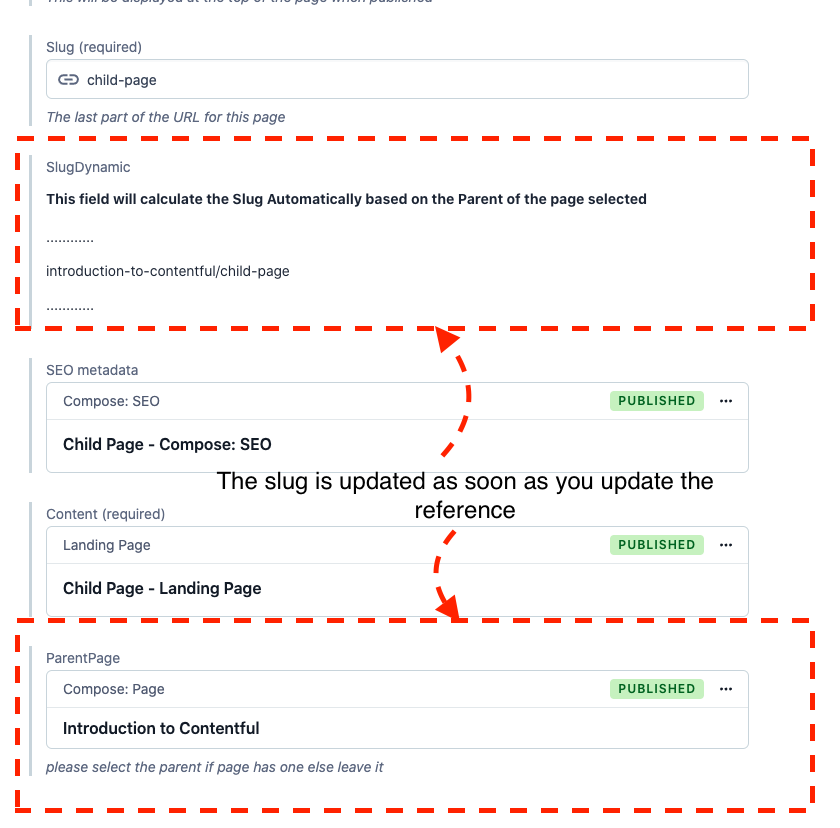
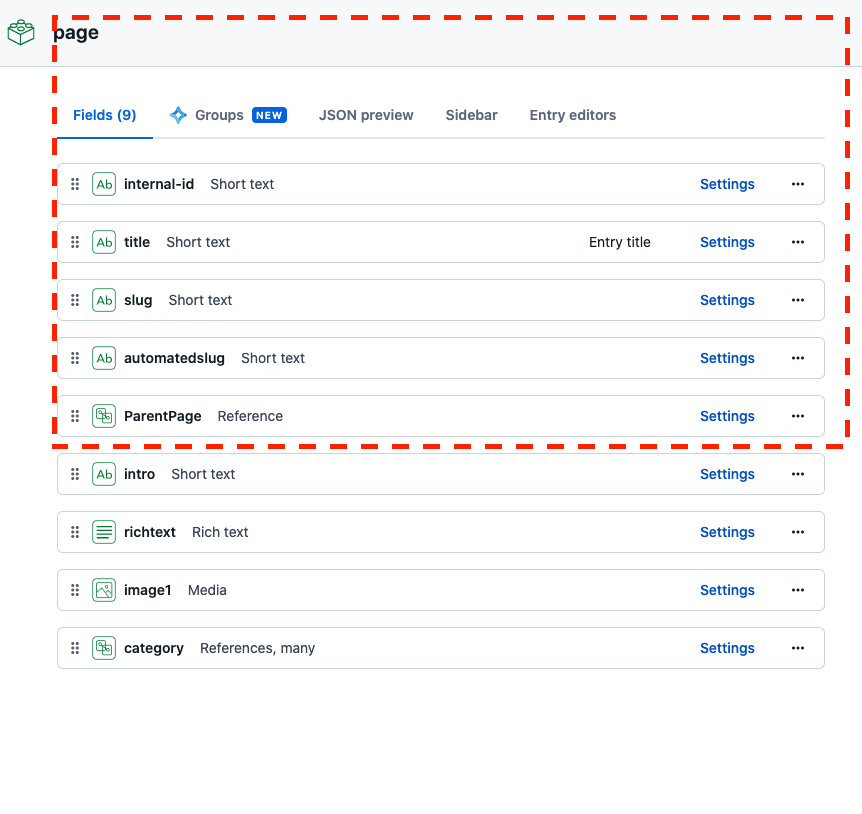
updated app + Read me

diff --git a/src/components/Field.tsx b/src/components/Field.tsx
@@ -1,6 +1,7 @@
 import { useEffect,useState } from 'react';
 import { PlainClientAPI } from 'contentful-management';
 import { FieldExtensionSDK } from '@contentful/app-sdk';
+import { Button } from '@contentful/f36-components';
 
 interface FieldProps {
   sdk: FieldExtensionSDK;
@@ -14,63 +15,119 @@ const Field = (props: FieldProps) => {
 
   const [parentSlug, setParentSlug] = useState('')
   const [slug, setSlug] = useState('')
+  const [finalSlugValue, setFinalSlugValue] = useState('')
 
   useEffect(() => {
     
-          //listen to parentReferenceField
+    //called on saving value
+    const detachOnMetaChanged = props.sdk.entry.onMetadataChanged(
+      async (value:any) => {
+        console.log('onSysChanged',value)
+        console.log('onSysChanged',finalSlugValue)
+        props.sdk.field.setValue(finalSlugValue)
+      }
+    )
+    
+    //listen to parentReferenceField
     const detachValueChangeHandlerParentSlug = props.sdk.entry.fields.parentPage.onValueChanged(async (value) => {
 
-        if(value){
+      //debugger
+      console.log(props.sdk.entry.fields.automatedslug)
+          if(value){
 
-          //getting the parent entry
-          const entry = await props.cma.entry.get({entryId:value.sys.id})
-          
-          //checking for user email, you can apply your own custom roles here.
-          if(props.sdk.user.email === 'omer.abdulmaroof@contentful.com')
+            //getting the parent entry
+            const entry = await props.cma.entry.get({entryId:value.sys.id})
 
-            //gettin slug value from parent page.
-            setParentSlug(entry.fields.slug['en-US'])
-          else {
+            //debugger
+            //check if page has parent, set slug to autmated else set to normal slug
+            if(entry.fields.parentPage == null){
+              //gettin slug value from parent page.
+              setParentSlug(entry.fields.slug['en-GB'])
+            }else{
+              //gettin slug value from parent page.
+              setParentSlug(entry.fields.automatedslug['en-GB'])
 
-            //showing alert if the user is not allowed to save slug
-            props.sdk.dialogs.openAlert(
-              {
-                title:'Error Message',
-                confirmLabel:'Ok',
-                message:'Dear user, You are not allowed to add child Page to this page.'
-              })
+            }
+
+          }else{
             setParentSlug('')
-            props.sdk.entry.fields.parentPage.removeValue()
-          }
-        }else{
-          setParentSlug('')
-        }     
+          }     
+
       })
   
     
     const detachValueChangeHandlerTitle = props.sdk.entry.fields.slug.onValueChanged(
       async (value:any) => {
-        setSlug(value)
+      setSlug(value)
       }
     )
 
      return () => {
         detachValueChangeHandlerParentSlug()
         detachValueChangeHandlerTitle()
+        detachOnMetaChanged()
      }
   }, [])
 
   useEffect(()=>{
-    //we want to set the value of the field when ever parent slug or the value of slug changes.
-    console.log('Dynamic slug',parentSlug,slug)
-    props.sdk.field.setValue(`${parentSlug}/${slug}`)
-  },[parentSlug,slug, props.sdk.field])
+     console.log('parent',parentSlug,'child',slug)
+
+    const saveSlugValue = async () => {
+      setFinalSlugValue(`${parentSlug}/${slug}`)
+      let value =  await props.sdk.field.setValue(`/${parentSlug}/${slug}`)
+      console.log('saved slug',value)
+    }
+
+    saveSlugValue()
+  },[parentSlug,slug])
+
+  const syncButtonClicks = ()=>{
+
+    const getReferenceTree = async () => {
+       //get all reference tree and validate it 
+      const pageTree = await props.cma.entry.references({entryId:props.sdk.entry.getSys().id})
+      const pageTreeArray:any = await pageTree.includes?.Entry
+      console.log(typeof pageTree)
+      console.log(typeof pageTreeArray)
+
+
+      //if there is no parent set Parent slug to empty
+      if(pageTreeArray == undefined){
+        setParentSlug('') 
+        return
+      }
+      
+      //debugger
+      var updatedSlugValue = ''
+      for( const page of pageTreeArray){
+        //we only want to get the slug of that page not the parent as parent maybe out of date
+        const pageSlug = page.fields.automatedslug["en-GB"].split('/').pop()
+        console.log('page',pageSlug)
+
+        if(updatedSlugValue===''){
+          updatedSlugValue =`${pageSlug}`
+        }else{
+          updatedSlugValue = `${pageSlug}/${updatedSlugValue}`
+        }
+      }
+
+      console.log('updatedSlug',updatedSlugValue)
+    
+      //update to the latest slug value
+      setParentSlug(updatedSlugValue)
+
+    }
+    console.log('syncButtonClicks')
+    getReferenceTree()
+  }
 
   return (<div>
             <h4>This field will calculate the Slug Automatically based on the Parent of the page selected</h4>
             <p>............</p>
-            {parentSlug}/{slug}
-            <p>............</p>
+            {finalSlugValue}
+            <div>
+              <Button onClick={syncButtonClicks}>Sync Slug</Button>
+            </div>
           </div>);
 };
 

diff --git a/README.md b/README.md
@@ -11,9 +11,13 @@ Sample App
 <br>
 Steps to use.
 
-- Create a Child Page and a Parent page with slug fields as shown in screenshot below
+- Create a content type "page" with following fields
+  - internal-id
+  - title
+  - slug
+  - automatedslug (configure the app on this field)
+  - ParentPage (as a reference field)
 
-<img src="./rd2.png" alt="" width="200" height="100"/>
 
 - Run and Install the App with Field location. In this example I created Slug Dynamic field as a seprate field. 
 
